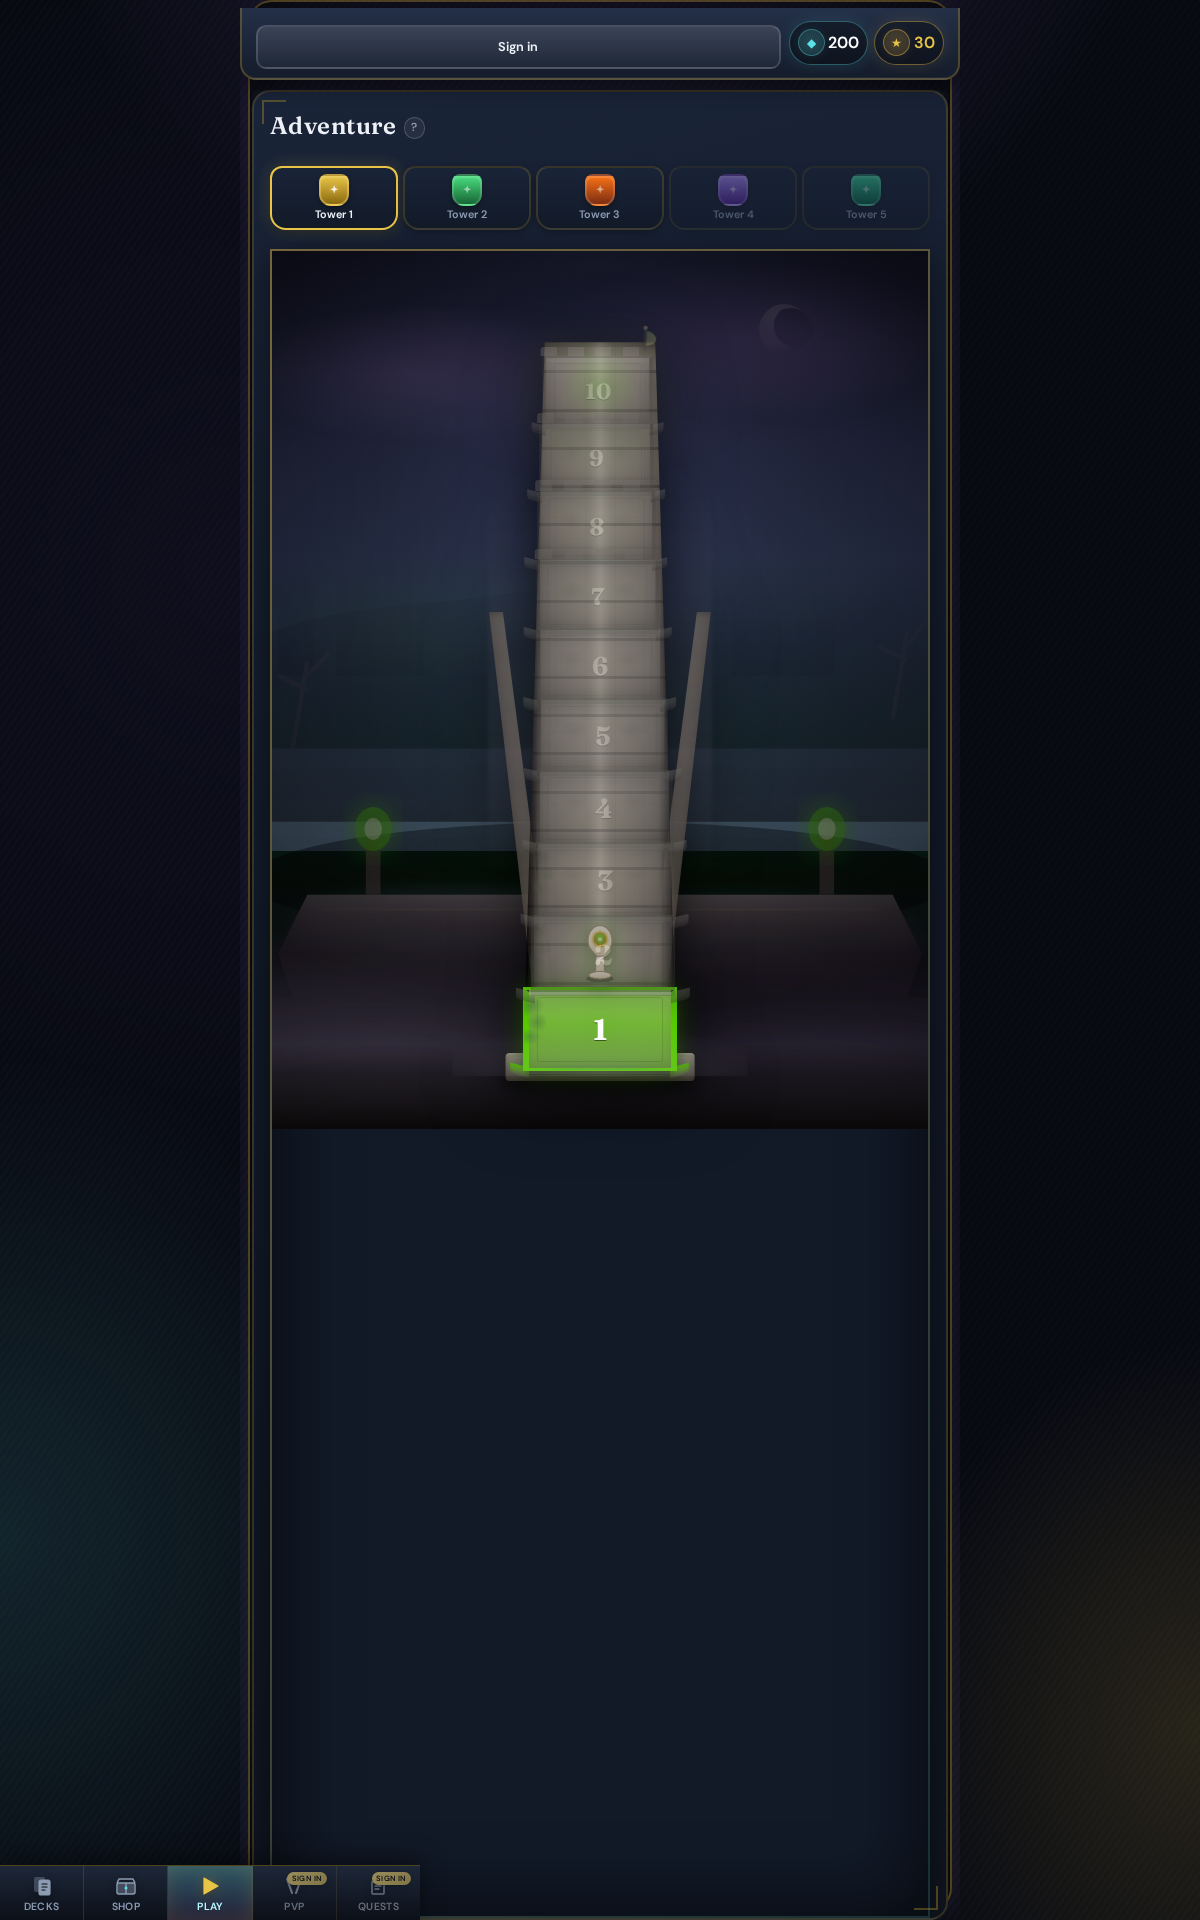
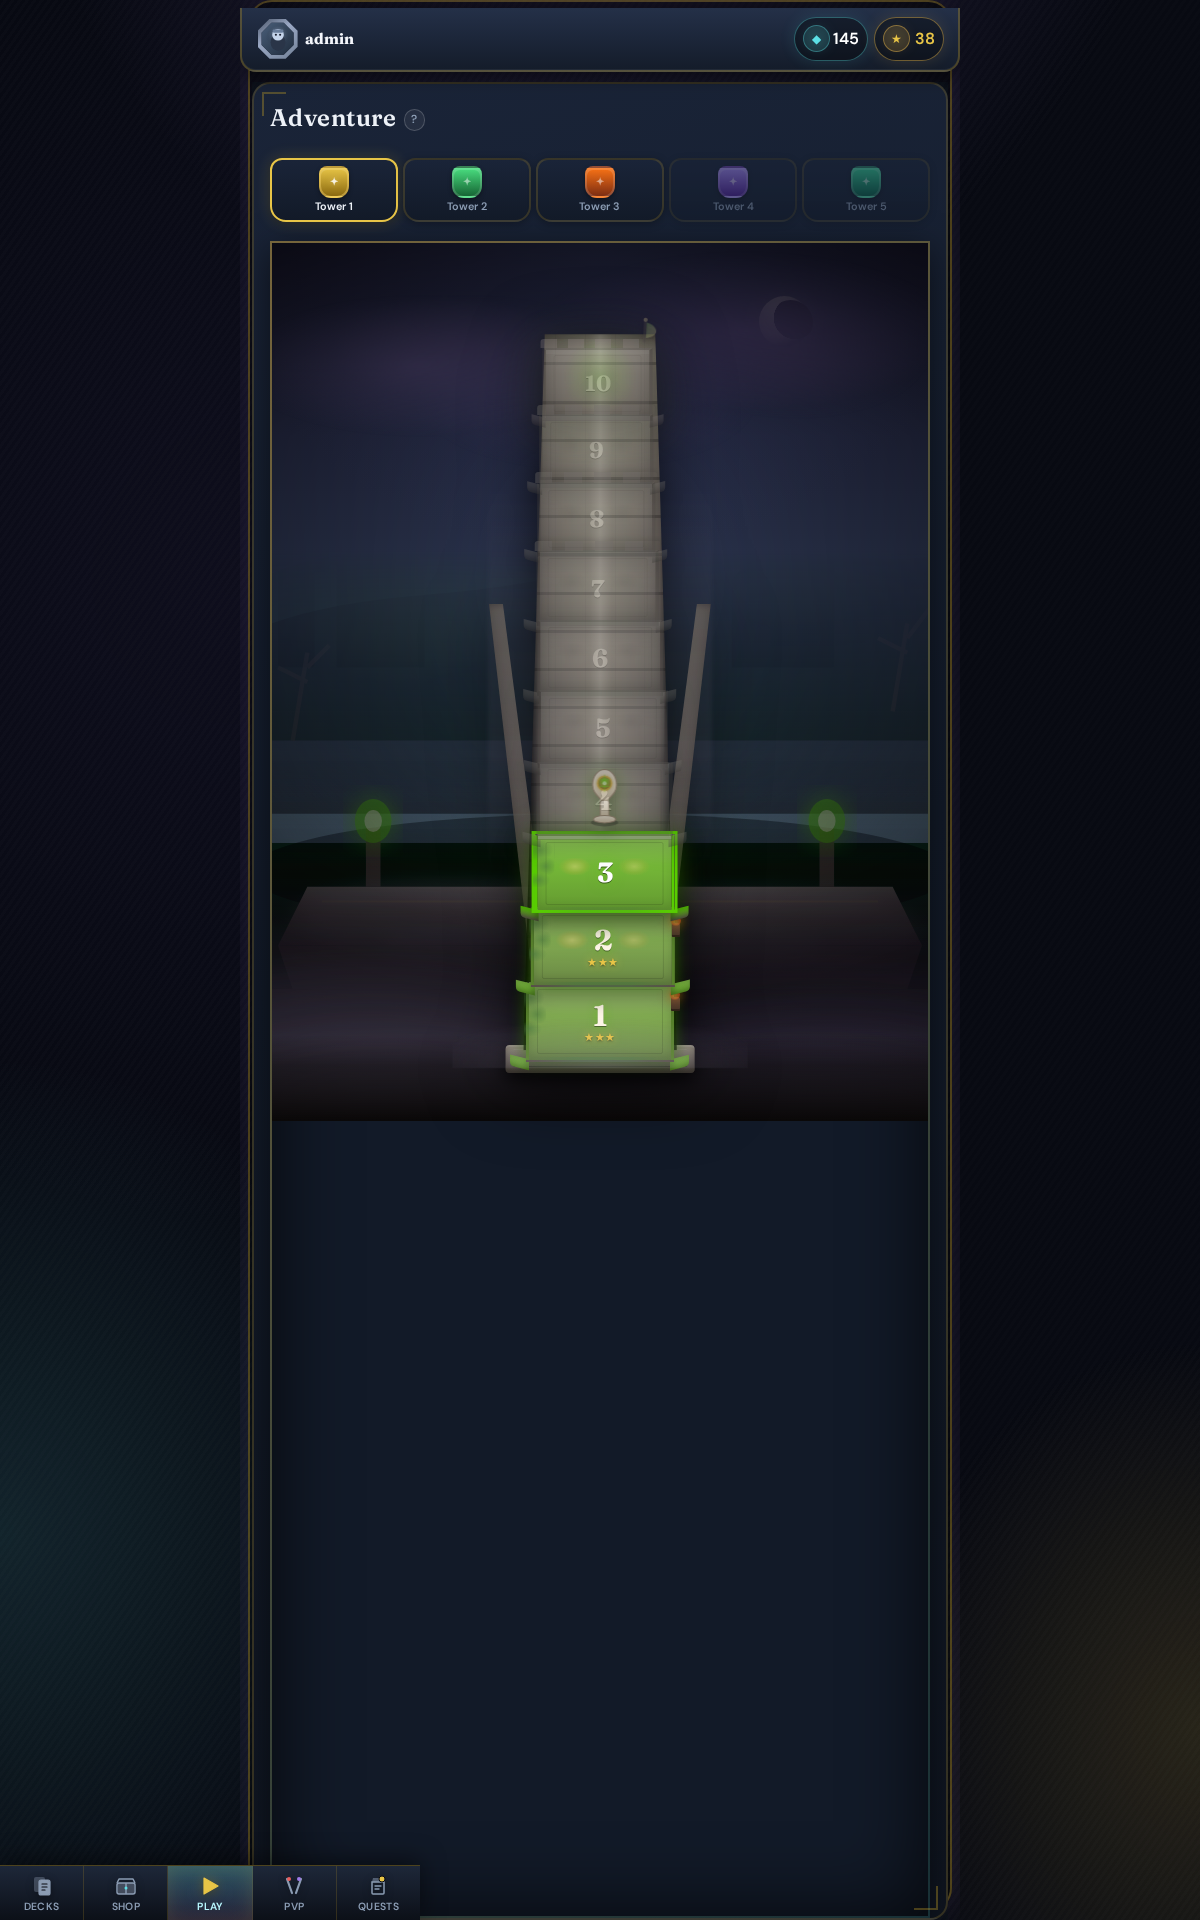
Regenerate signed-in tablet screenshots with Title quests tab
- Capture as admin account (real gems/progress, no Sign in bar)
- Use Title quests tab for 05-quests.png instead of decks
- Improve authenticated capture flow: shop/quests before match

diff --git a/assets/store/README.md b/assets/store/README.md
@@ -5,7 +5,7 @@ Signed-in marketing screenshots for Google Play / App Store listings.
 | Folder | Size | Files |
 |--------|------|-------|
 | `phone/` | 390×844 | `01-match`, `02-adventure`, `04-shop`, `05-quests` |
-| `tablet-7/` | 600×1024 | `01-match`, `02-adventure`, `04-shop`, `05-decks` |
+| `tablet-7/` | 600×1024 | `01-match`, `02-adventure`, `04-shop`, `05-quests` |
 | `tablet-10/` | 1200×1920 | same |
 
 Regenerate (requires `SCREENSHOT_EMAIL` and `SCREENSHOT_PASSWORD` for signed-in shots):
